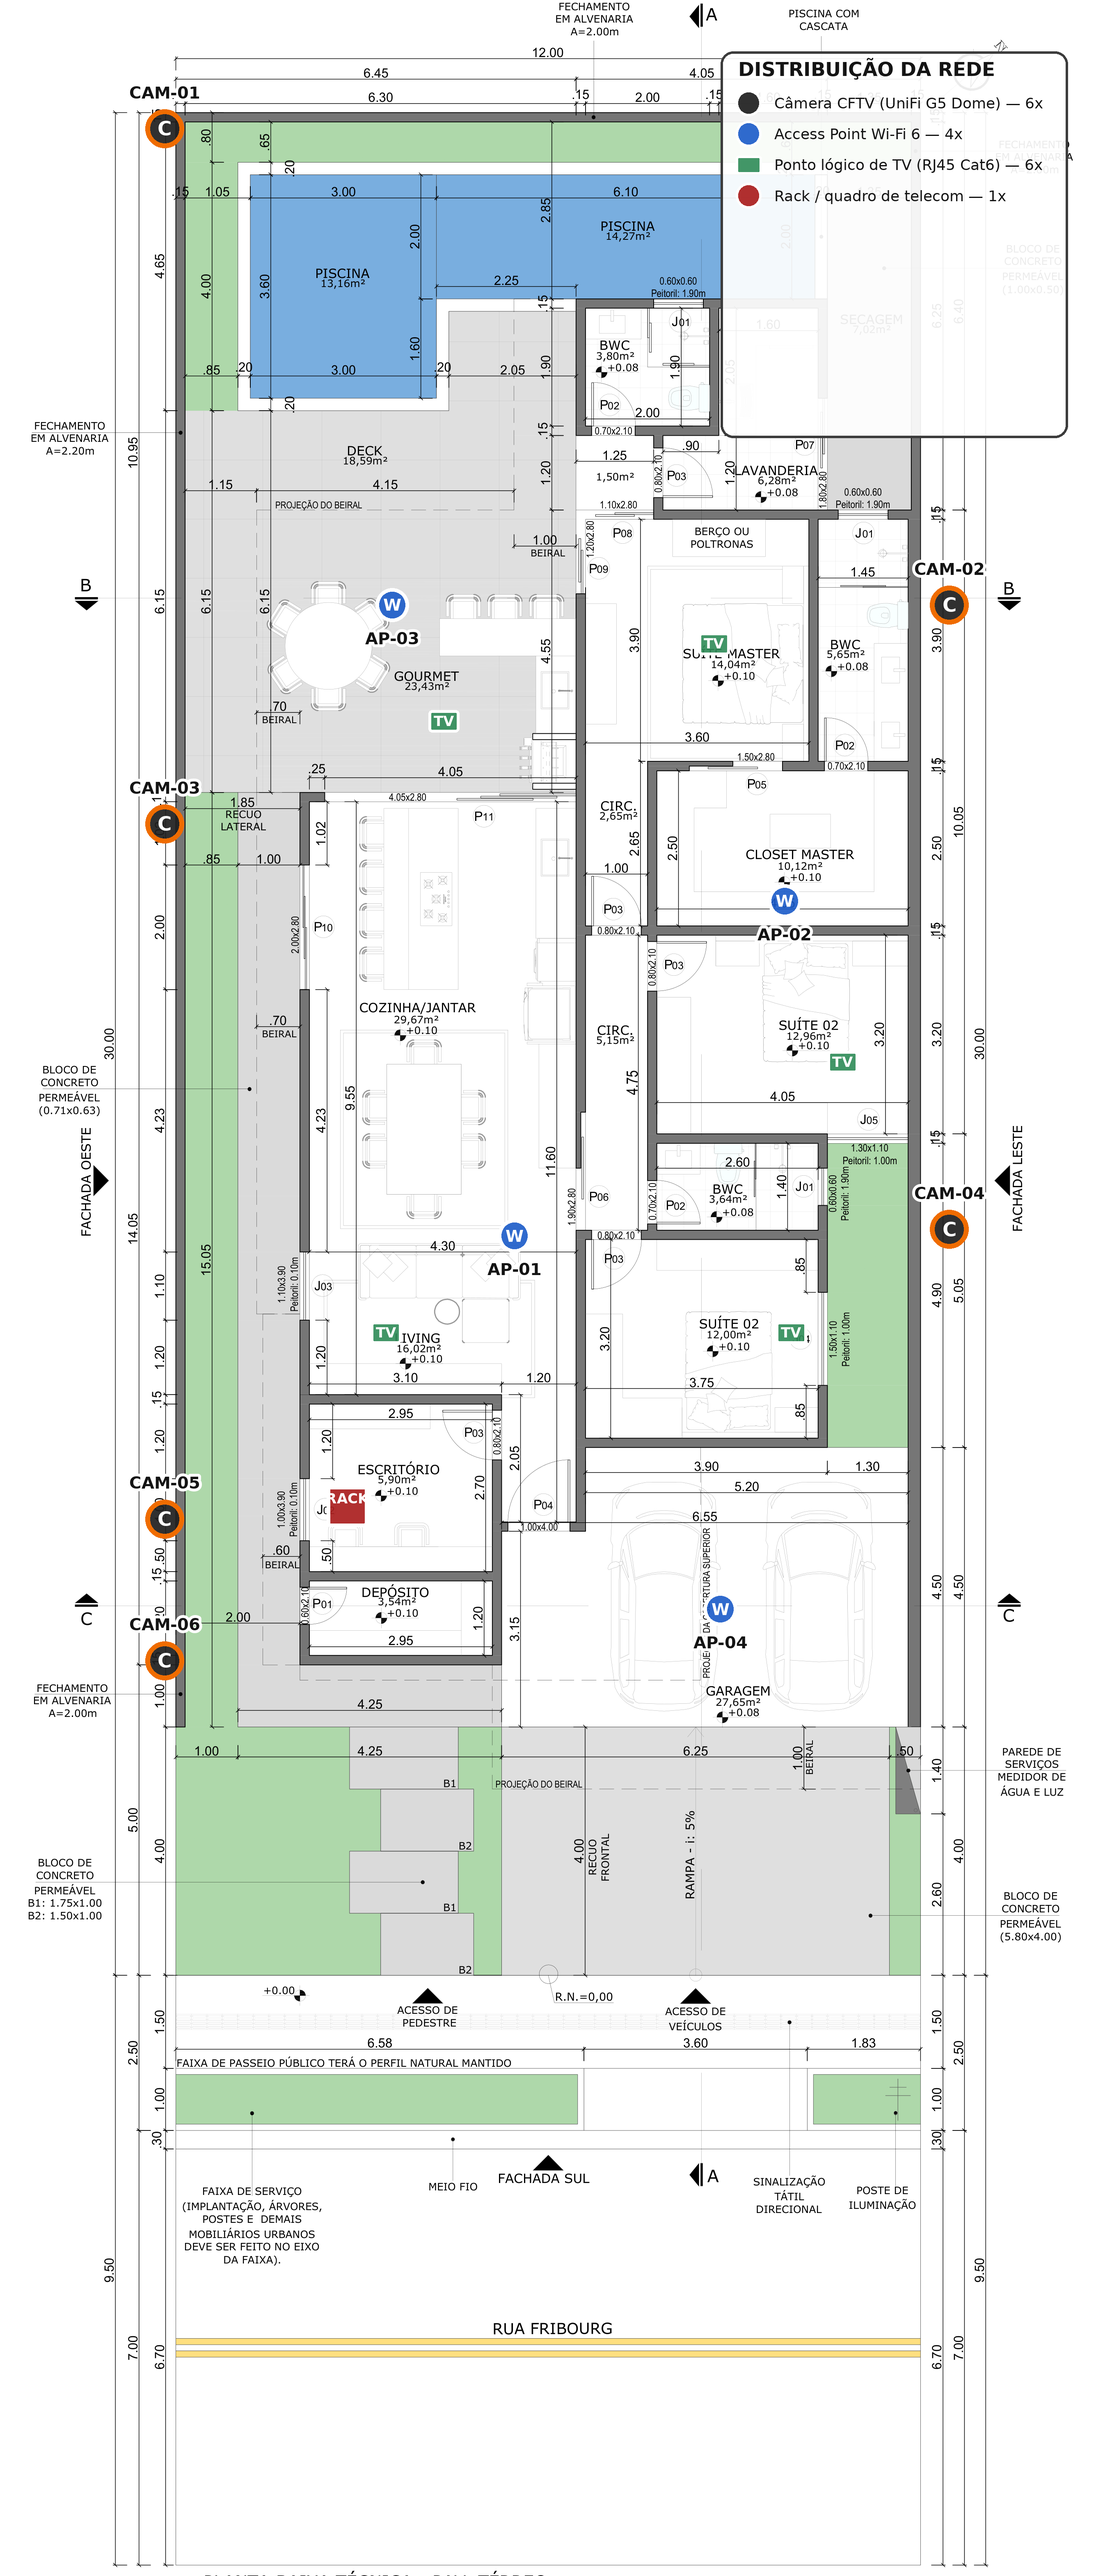
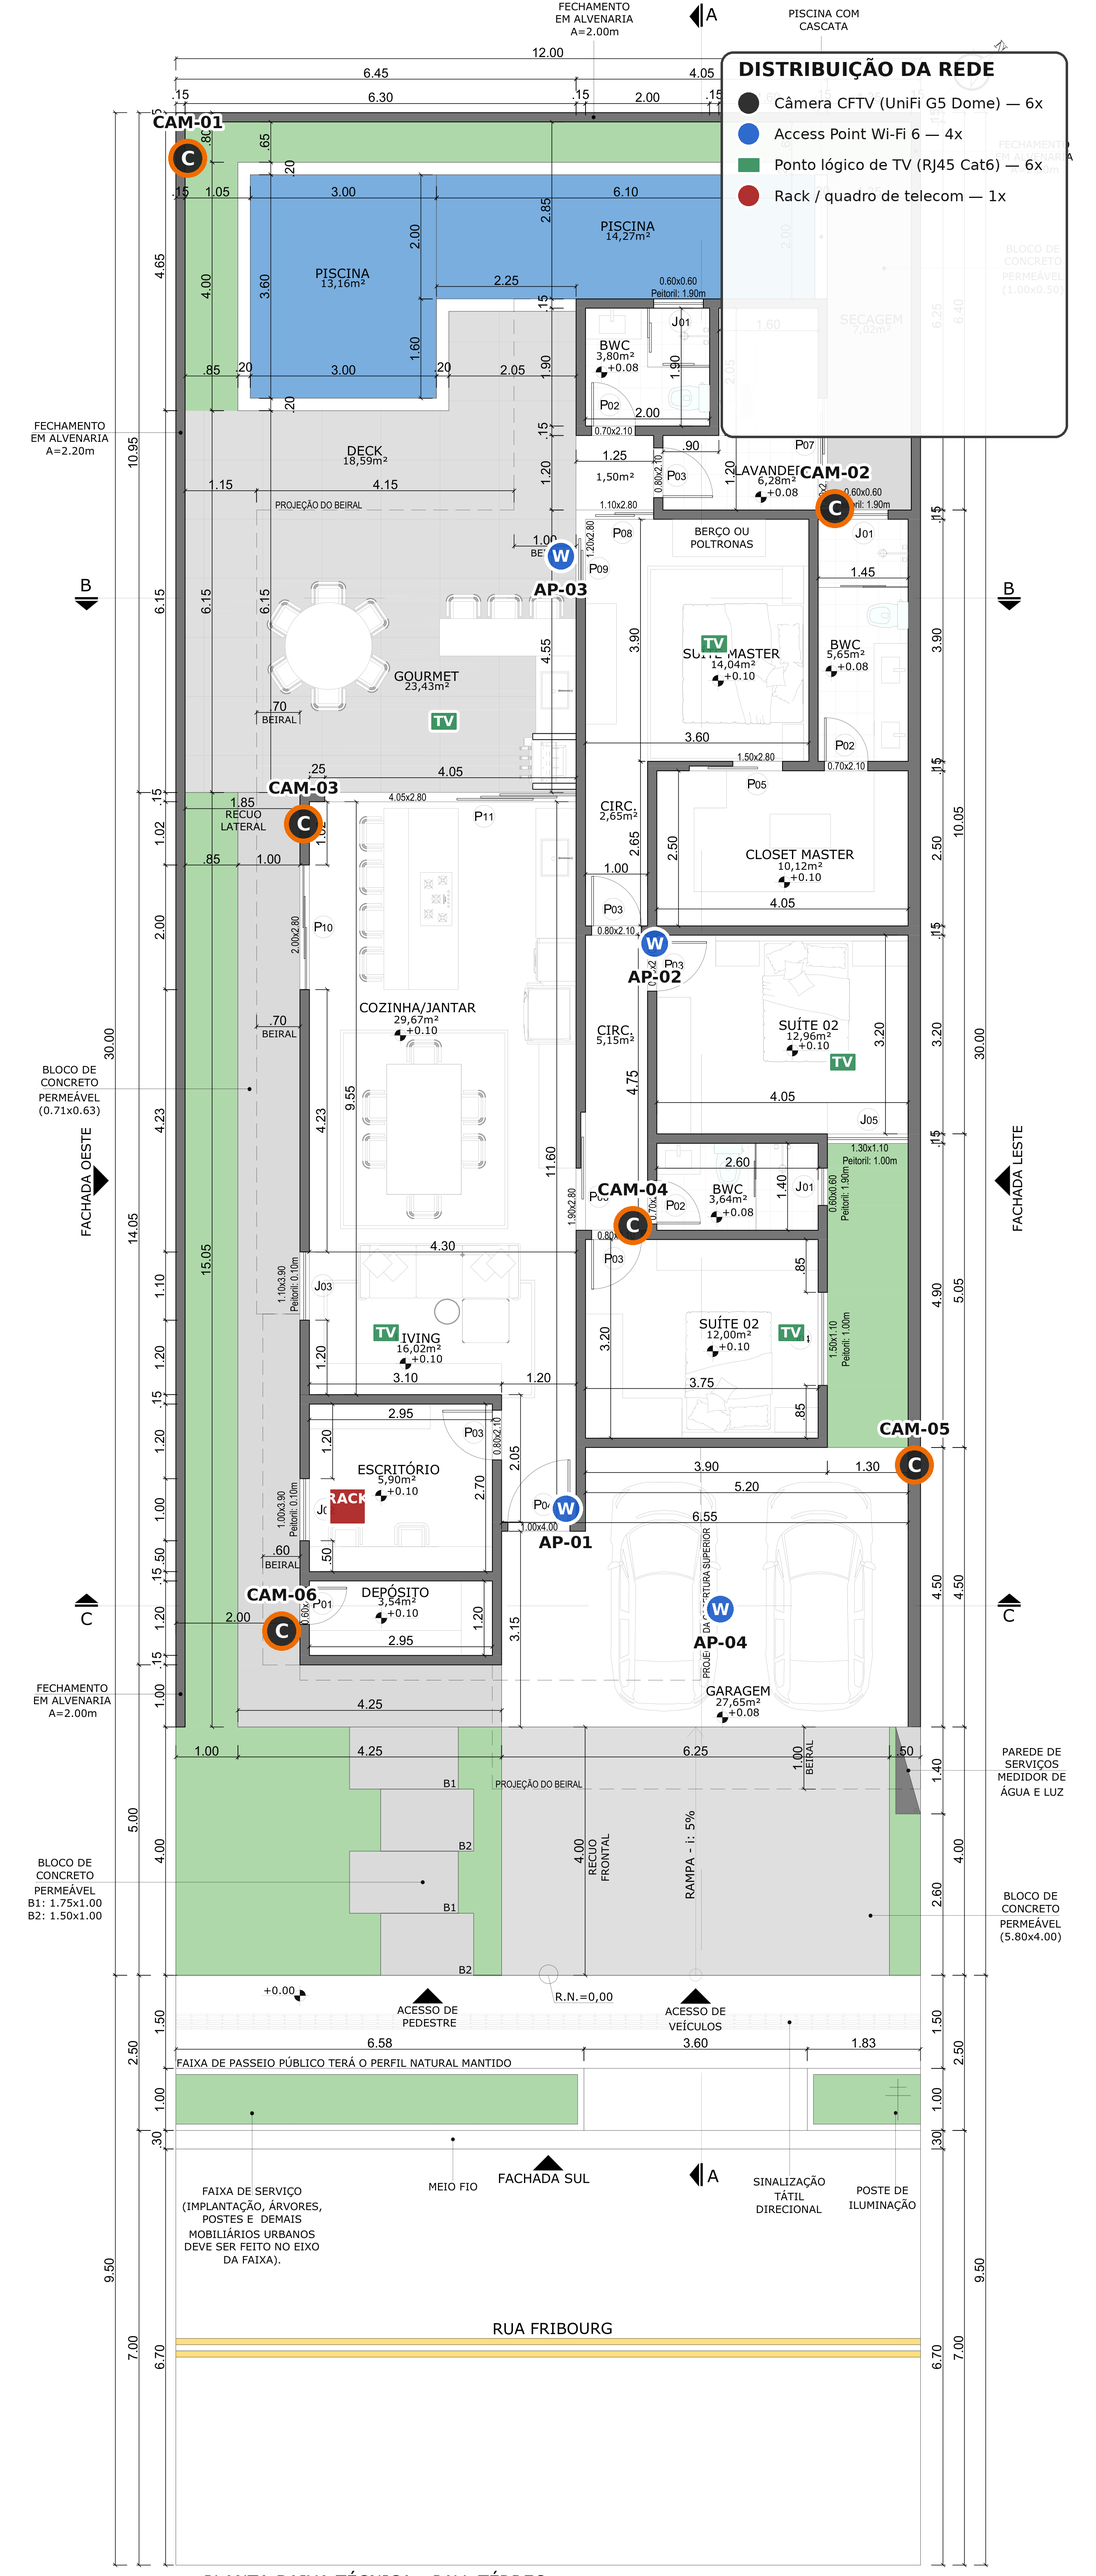
Recalibra posicoes de cameras e APs na planta a partir das simulacoes
Faz a checagem pixel a pixel das duas imagens de simulacao enviadas
pelo cliente contra a planta baixa limpa (calibracao por escala e
offset usando os cantos do edificio como referencia), e redesenha o
diagrama com as posicoes reais em vez das estimativas logicas por
zona usadas antes.

Correcoes relevantes:
- CAM-02 e CAM-05 nao ficam no "muro leste altura do Escritorio" como
  descrito antes -- o Escritorio fica no lado OESTE da casa. As
  posicoes reais sao: nicho do BWC (Suite Master), recuo lateral
  oeste, posicao central (Suite 02/Circulacao) e muro leste/patio
  (Suite 02) -- nenhuma delas no eixo do Escritorio.
- Os 3 marcadores de AP (nao 4) aparecem nas simulacoes exatamente
  onde o escopo ja previa AP-01/02/03 -- confirma que o AP-04
  (garagem) e mesmo opcional e ainda nao foi posicionado pelo cliente.
- Atualiza a tabela de cameras/APs no escopo, o mapeamento de zonas
  do item 6.1 e o Mapa de Pontos por Ambiente na planilha.

Claude-Session: https://claude.ai/code/session_012fnpdJTGdpvo55JqsFcMfC

diff --git a/SWISS-J26-Patrick/escopo-rede-wifi-cftv-cabeamento.md b/SWISS-J26-Patrick/escopo-rede-wifi-cftv-cabeamento.md
@@ -71,11 +71,12 @@ A simulação de RSSI (`simulacao_wifi_heatmap_rssi.png`) e a de cobertura (`sim
 
 | AP | Local de instalação | Tipo | Cobre principalmente |
 |---|---|---|---|
-| AP-01 | Forro do Living/Circulação central | Teto, Wi-Fi 6 indoor (ex.: UniFi U6-Pro / U6-Lite) | Living, Cozinha/Jantar, Circulação, Escritório |
+| AP-01 | Forro na transição Living/Escritório | Teto, Wi-Fi 6 indoor (ex.: UniFi U6-Pro / U6-Lite) | Living, Cozinha/Jantar, Escritório, Circulação |
 | AP-02 | Forro do corredor das suítes (entre Suíte 01/02 e Suíte Master) | Teto, Wi-Fi 6 indoor | Suíte Master, Closet, Suíte 01, Suíte 02 e respectivos BWCs |
-| AP-03 | Sob o beiral da Área Gourmet (fundos, fachada norte) | Externo, IP65, Wi-Fi 6 (ex.: UniFi U6-Mesh / U6-IW) | Gourmet, Deck, Piscina, quintal |
+| AP-03 | Forro da passagem entre o Gourmet/Deck e o corredor de serviço (Secagem/Lavanderia) | Teto ou parede, Wi-Fi 6 (ex.: UniFi U6-Mesh / U6-IW), IP65 se instalado em área não coberta | Gourmet, Deck, Piscina — ponto central de passagem entre a área social externa e o restante da casa |
 | AP-04 *(opcional)* | Sob o beiral próximo à Garagem (fachada sul) | Externo, IP65 | Garagem, acesso de veículos/pedestres, reforço de sinal na rua/portão |
 
+- As posições de AP-01/02/03 foram conferidas contra a simulação de RF fornecida (item 3.1) — nas imagens aparecem 3 marcadores de AP, exatamente nesses 3 pontos; **não há um 4º marcador no arquivo do cliente**, o que é coerente com o AP-04 ser opcional e ainda não definido.
 - **AP-04** é opcional para o primeiro momento; recomendado caso o proprietário utilize a garagem/entrada como área de convivência ou precise de sinal no portão para interfone/automação.
 - Todos os APs em **cabeamento dedicado** (não em cascata via outro AP) para evitar gargalo.
 
@@ -98,18 +99,20 @@ A simulação de RSSI (`simulacao_wifi_heatmap_rssi.png`) e a de cobertura (`sim
 
 > **Correção de contagem (confirmada pelo cliente):** as simulações mostram **6 câmeras Ubiquiti UniFi G5**, não 8. A versão anterior deste documento presumiu 2 câmeras adicionais nos cantos sul (portão/calçada) que não existem no layout real. A tabela abaixo reflete as 6 posições efetivamente marcadas nas imagens.
 
-O layout já esboçado nas simulações consolida-se em **6 câmeras externas fixas, todas Ubiquiti UniFi G5 Dome** (mesmo modelo em todas as posições, mantendo padronização visual e de sobressalentes):
+O layout já esboçado nas simulações consolida-se em **6 câmeras externas fixas, todas Ubiquiti UniFi G5 Dome** (mesmo modelo em todas as posições, mantendo padronização visual e de sobressalentes). As posições abaixo foram conferidas pixel a pixel contra as simulações fornecidas e transportadas para a planta baixa técnica real — ver `diagramas/planta_distribuicao_rede.png`:
 
-| Câmera | Posição | Fachada | Cobertura |
-|---|---|---|---|
-| CAM-01 | Canto Noroeste (fundos) | Norte/Oeste | Piscina, fundo do lote, muro oeste (trecho fundos) |
-| CAM-02 | Muro Leste, altura da Suíte Master/BWC | Leste | Muro leste (trecho fundos), parte da Área Gourmet |
-| CAM-03 | Muro Oeste, altura da Suíte Master/Circulação | Oeste | Corredor lateral oeste (trecho norte) |
-| CAM-04 | Muro Leste / pátio, altura da Suíte 02 | Leste | Corredor lateral leste (trecho central) |
-| CAM-05 | Muro Leste, altura do Escritório/Depósito | Leste | Corredor lateral leste (trecho sul), acesso de serviço |
-| CAM-06 | Canto Sudoeste, próximo à Garagem | Sul/Oeste | Acesso de veículos, garagem, portão |
+| Câmera | Posição na planta | Cobertura |
+|---|---|---|
+| CAM-01 | Canto Noroeste, junto à piscina (onde o muro oeste encontra o muro norte) | Piscina, fundo do lote, muro oeste (trecho fundos) |
+| CAM-02 | Nicho formado pelo BWC de serviço, junto à Suíte Master (não é a quina externa — a câmera fica recuada em relação ao muro leste) | Fundo do corredor de serviço (Secagem/Lavanderia) e parte da Área Gourmet |
+| CAM-03 | Muro oeste, no recuo lateral entre o Gourmet e a Cozinha (o muro tem um recuo de 1,85 m nesse trecho — a câmera acompanha esse recuo, não a linha do muro principal) | Corredor lateral oeste, altura da Suíte Master/Circulação |
+| CAM-04 | Posição central, junto à Circulação/BWC entre as Suítes 01 e 02 (não é uma câmera de muro — fica voltada para o corredor interno) | Corredor central e acesso às Suítes 01/02 |
+| CAM-05 | Muro leste, no recuo/pátio ao lado da Suíte 02 (trecho sul) | Corredor lateral leste e o pátio/jardim de luz junto à Suíte 02 |
+| CAM-06 | Canto Sudoeste, entre o Escritório e a Garagem | Acesso de veículos, garagem, portão |
 
-> **Observação de cobertura:** com apenas 6 câmeras, o **acesso de pedestres/calçada no canto sudeste** (junto à Rua Fribourg) fica sem câmera dedicada — hoje é coberto apenas indiretamente pela CAM-06. Se o acesso de pedestres for prioritário para o cliente, vale avaliar deslocar a CAM-05 ou adicionar uma 7ª câmera nesse canto; mantido como está por ora, por refletir fielmente o que já foi definido.
+> **Correção em relação à revisão anterior:** o mapeamento anterior descrevia CAM-04/CAM-05 como câmeras de "muro leste, altura do Escritório" — isso estava errado, pois o Escritório fica no lado **oeste** da casa (confirmado ao extrair a planta baixa limpa do PDF). As posições acima refletem a checagem pixel a pixel contra as duas simulações fornecidas.
+>
+> **Observação de cobertura:** com esse layout, o **acesso de pedestres/calçada no canto sudeste** e o trecho do muro oeste entre a Suíte Master e o Escritório ficam sem câmera dedicada (cobertura apenas indireta pela CAM-06). Se esses pontos forem prioritários, vale considerar uma 7ª câmera; mantido como está por ora, por refletir fielmente o que já foi definido pelo cliente.
 
 ### 4.2 Especificação técnica das câmeras
 
@@ -166,11 +169,11 @@ O layout já esboçado nas simulações consolida-se em **6 câmeras externas fi
 
 A casa tem 30 m de profundidade e formato retangular estreito, com os pontos de rede distribuídos ao longo de todo esse eixo:
 
-- Extremo sul (~0–5 m): Garagem, acesso de veículos/pedestres, 1 câmera de canto (CAM-06), entrada da concessionária (ONU).
-- Trecho sul-central (~5–9 m): **Escritório**, Depósito, Lavanderia, Secagem — cluster de serviço, 1 câmera (CAM-05).
-- Trecho central (~9–18 m): Living, Cozinha/Jantar, Circulação, Suíte 01, Suíte 02 — **maior concentração de pontos**: AP-01, AP-02, 1 câmera (CAM-04), 3 pontos de TV (Living, Suíte 01, Suíte 02).
-- Trecho norte (~18–26 m): Suíte Master, Closet, BWC — AP-02 (extensão), 2 câmeras (CAM-02/03, muros leste e oeste), 1 ponto de TV.
-- Extremo norte (~26–30 m): Piscina, Deck, Gourmet — AP-03, 1 câmera de canto (CAM-01), 1 ponto de TV.
+- Extremo sul (~0–5 m): Garagem, acesso de veículos/pedestres, entrada da concessionária (ONU).
+- Trecho sul-central (~5–9 m): **Escritório**, Depósito, Lavanderia, Secagem — cluster de serviço, CAM-06 na fronteira deste trecho com a Garagem.
+- Trecho central (~9–18 m): Living, Cozinha/Jantar, Circulação, Suíte 01, Suíte 02 — **maior concentração de pontos**: AP-01, AP-02, CAM-04 e CAM-05 (posição central e muro leste/pátio), 3 pontos de TV (Living, Suíte 01, Suíte 02).
+- Trecho norte (~18–26 m): Suíte Master, Closet, BWC — AP-02 (extensão), CAM-02 e CAM-03 (nicho do BWC e recuo lateral oeste), 1 ponto de TV.
+- Extremo norte (~26–30 m): Piscina, Deck, Gourmet — AP-03, CAM-01 (canto noroeste), 1 ponto de TV.
 
 **Local definido — Escritório (~8 m do extremo sul):** por estar no mesmo cluster sul-central do Depósito, o Escritório herda o mesmo perfil de distância que aquela opção: é o ponto **mais curto para a Garagem/ONU** (uplink de concessionária mais barato, ~6–8 m) e para as câmeras CAM-05/06, porém é o **mais distante** dos pontos com maior concentração de demanda — bloco de suítes, corredor central e, principalmente, Piscina/Gourmet nos fundos (~26–30 m em linha de rota).
 
